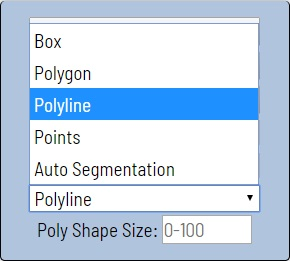
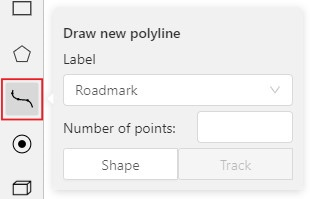
update user_guide.md and images

diff --git a/cvat/apps/documentation/user_guide.md b/cvat/apps/documentation/user_guide.md
@@ -1088,24 +1088,22 @@ Also, if you need to annotate small objects, increase ``Image Quality`` to
 
 It is used for road markup annotation etc.
 
-Before starting, you have to be sure that ``Polyline`` is selected.
+Before starting, you need to select the ``Polyline``. You can set a fixed number of points
+in the ``Number of points`` field, then drawing will be stopped automatically.
 
 ![](static/documentation/images/image085.jpg)
 
-Press ``N`` for entering drawing mode. There are two ways to draw a polyline —
-you either create points clicking or dragging mouse on the screen, holding ``Shift``.
-
+Click ``Shape`` to enter drawing mode. There are two ways to draw a polyline —
+you either create points by clicking or by dragging a mouse on the screen while holding ``Shift``.
 When ``Shift`` isn't pressed, you can zoom in/out (when scrolling the mouse wheel)
 and move (when clicking the mouse wheel and moving the mouse), you can delete
-previous point clicking right mouse button. Press ``N`` again to complete the
-shape. You can delete points double-clicking them. Double-click with pressed
-``Shift`` will open a polyline editor. There you can create new points
-(clicking or dragging) or delete part of a polygon closing the red line on
-another point. Press ``Esc`` to cancel editing. Also, you can set fixed number
-of points in the "poly shape size" field, then drawing will be stopped
-automatically. You can adjust the polyline after it has been drawn.
+previous points by right-clicking on it. Press ``N`` again to complete the shape.
+You can delete a point by double-clicking on it with pressed ``Ctrl`` or right-clicking on a point
+and selecting ``Delete point``. Double-click with pressed ``Shift`` will open a polyline editor.
+There you can create new points(by clicking or dragging) or delete part of a polygon closing
+the red line on another point. Press ``Esc`` to cancel editing.
 
-![](static/documentation/images/image039.jpg)
+![](static/documentation/images/image039_mapillary_vistas.jpg)
 
 ## Annotation with cuboids
 
